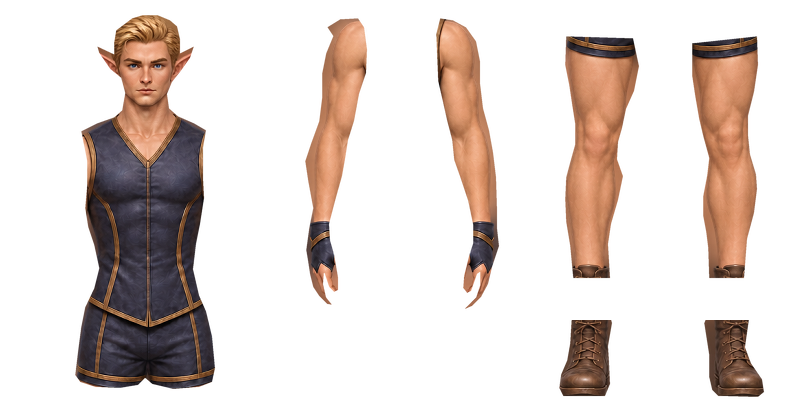
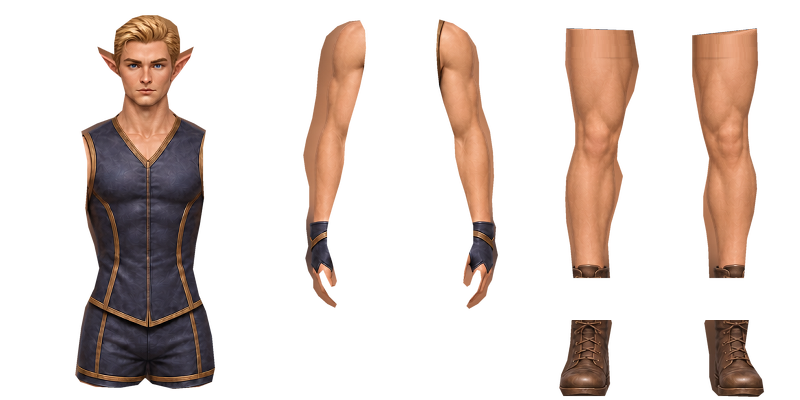
Re-register male elf sprite anatomy and clean side-view overlaps

diff --git a/app/src/main/java/com/cosmerearchives/dndroguelike/ElfBaseArt.java b/app/src/main/java/com/cosmerearchives/dndroguelike/ElfBaseArt.java
@@ -31,14 +31,14 @@ final class ElfBaseArt {
     };
 
     private static final int[][][] MALE = {
-        {{55,49,42,139,27,228,135,626}, {42,49,57,139,69,228,306,626},
-         {56,43,53,129,46,269,179,841}, {52,43,55,128,55,269,255,841}},
-        {{44,41,40,143,55,223,220,630}, {44,41,40,143,55,223,220,630},
-         {52,44,49,135,44,268,227,842}, {52,44,49,135,44,268,227,842}},
-        {{83,43,71,134,63,222,108,631}, {82,43,95,134,102,222,270,631},
-         {58,44,53,134,49,269,177,841}, {51,44,52,134,56,269,256,841}},
-        {{43,42,40,143,55,223,220,630}, {43,42,40,143,55,223,220,630},
-         {53,44,49,135,45,268,226,842}, {53,44,49,135,45,268,226,842}}
+        {{56,47,42,138,29,227,135,626}, {43,47,61,136,71,226,306,626},
+         {55,38,51,137,48,275,179,841}, {52,39,57,135,55,275,255,841}},
+        {{44,42,40,143,62,225,220,630}, {44,42,40,143,62,225,220,630},
+         {49,38,54,138,46,274,227,842}, {49,38,54,138,46,274,227,842}},
+        {{86,42,69,136,64,222,108,631}, {77,41,95,137,107,222,270,631},
+         {57,40,58,141,51,275,177,841}, {51,40,55,139,54,275,256,841}},
+        {{44,42,40,143,62,225,220,630}, {44,42,40,143,62,225,220,630},
+         {50,38,55,139,47,274,226,842}, {50,38,55,139,47,274,226,842}}
     };
 
     private final Facing[] facings = new Facing[4];
